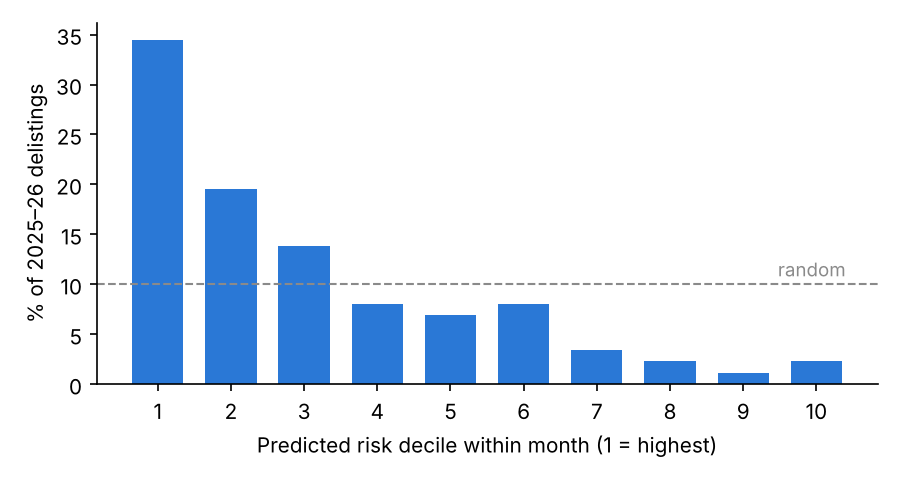
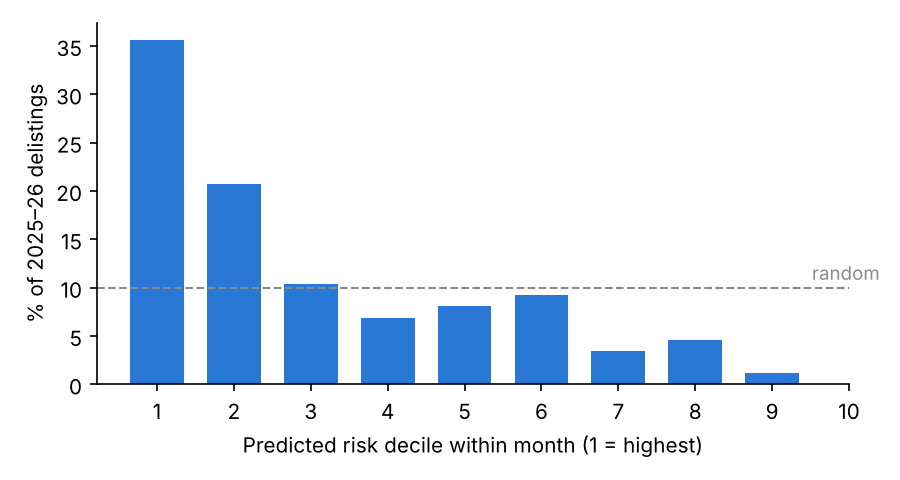
Re-run the notebook with walk-forward results and update the README
Five features vs volume alone: AUC 0.752 vs 0.696 (2025) and 0.757 vs
0.730 (2026). The riskiest 10% each month contains 36% of the 2025-26
delistings. All earlier outputs reproduce unchanged.

Claude-Session: https://claude.ai/code/session_01XA1xRiwwSeEA1rqC8Z9zWM

diff --git a/delisting/README.md b/delisting/README.md
@@ -11,7 +11,7 @@ of which tokens get delisted. The database is built in SQL (DuckDB); the model u
 | Labels | 192 tickers stopped trading: 144 delistings (8 of them only the USDT pair), 43 renames, 5 mergers, labeled by hand with sources |
 | Strongest signal | 1 SD more trading volume → delisting hazard × **0.27** (95% CI 0.20–0.37) |
 | Age matters | For tokens under 2 years old, trading close to the all-time high raises the hazard (HR 3.75 per SD of drawdown, where drawdown = price / running max − 1); for older tokens, high volatility does (HR 1.85) |
-| Out of sample | Trained before 2025, tested on 2025–26: AUC **0.728** vs 0.697 for volume alone; each month's riskiest 10% of tokens contains 34% of the delistings |
+| Out of sample | Walk-forward, refit yearly: AUC **0.75** in both 2025 and 2026, vs 0.70 and 0.73 for volume alone; each month's riskiest 10% of tokens contains 36% of the 2025–26 delistings |
 
 ![Hazard ratios](figures/hazard_ratios.png)
 
@@ -52,9 +52,10 @@ because the delisting is announced in advance. The model uses features from 30 d
   with age (LR test p = 0.0001), so the main model lets them differ for tokens under 2 years old. The pattern holds with a 3-year cutoff.
 - **Robustness.** Hazard ratios keep their sign and rough size when USDT-pair removals are added as events, uncertain labels are dropped,
   left-truncated tokens are dropped, or unlagged features are used (`results_robustness.csv`).
-- **Out of sample.** The age interactions were found on the full sample. Before 2025 alone the proportional hazards test finds
-  nothing (p = 0.68), so the fair out-of-sample model is the five features without interactions (AUC 0.728).
-  With the interactions it reaches 0.772, which is optimistic.
+- **Out of sample.** Walk-forward validation with an expanding window, refit once a year: 2025 is scored by a model fit on
+  2020–24 (49 delistings), 2026 by a model refit on 2020–25 (90 delistings). The age interactions were found on the full sample;
+  before 2025 alone the proportional hazards test finds nothing (p = 0.68), so the fair out-of-sample model is the five features
+  without interactions. Adding the interactions raises the pooled AUC from 0.732 to 0.775, which is optimistic.
 
 ![Out-of-sample risk deciles](figures/oos_risk_deciles.png)
 
